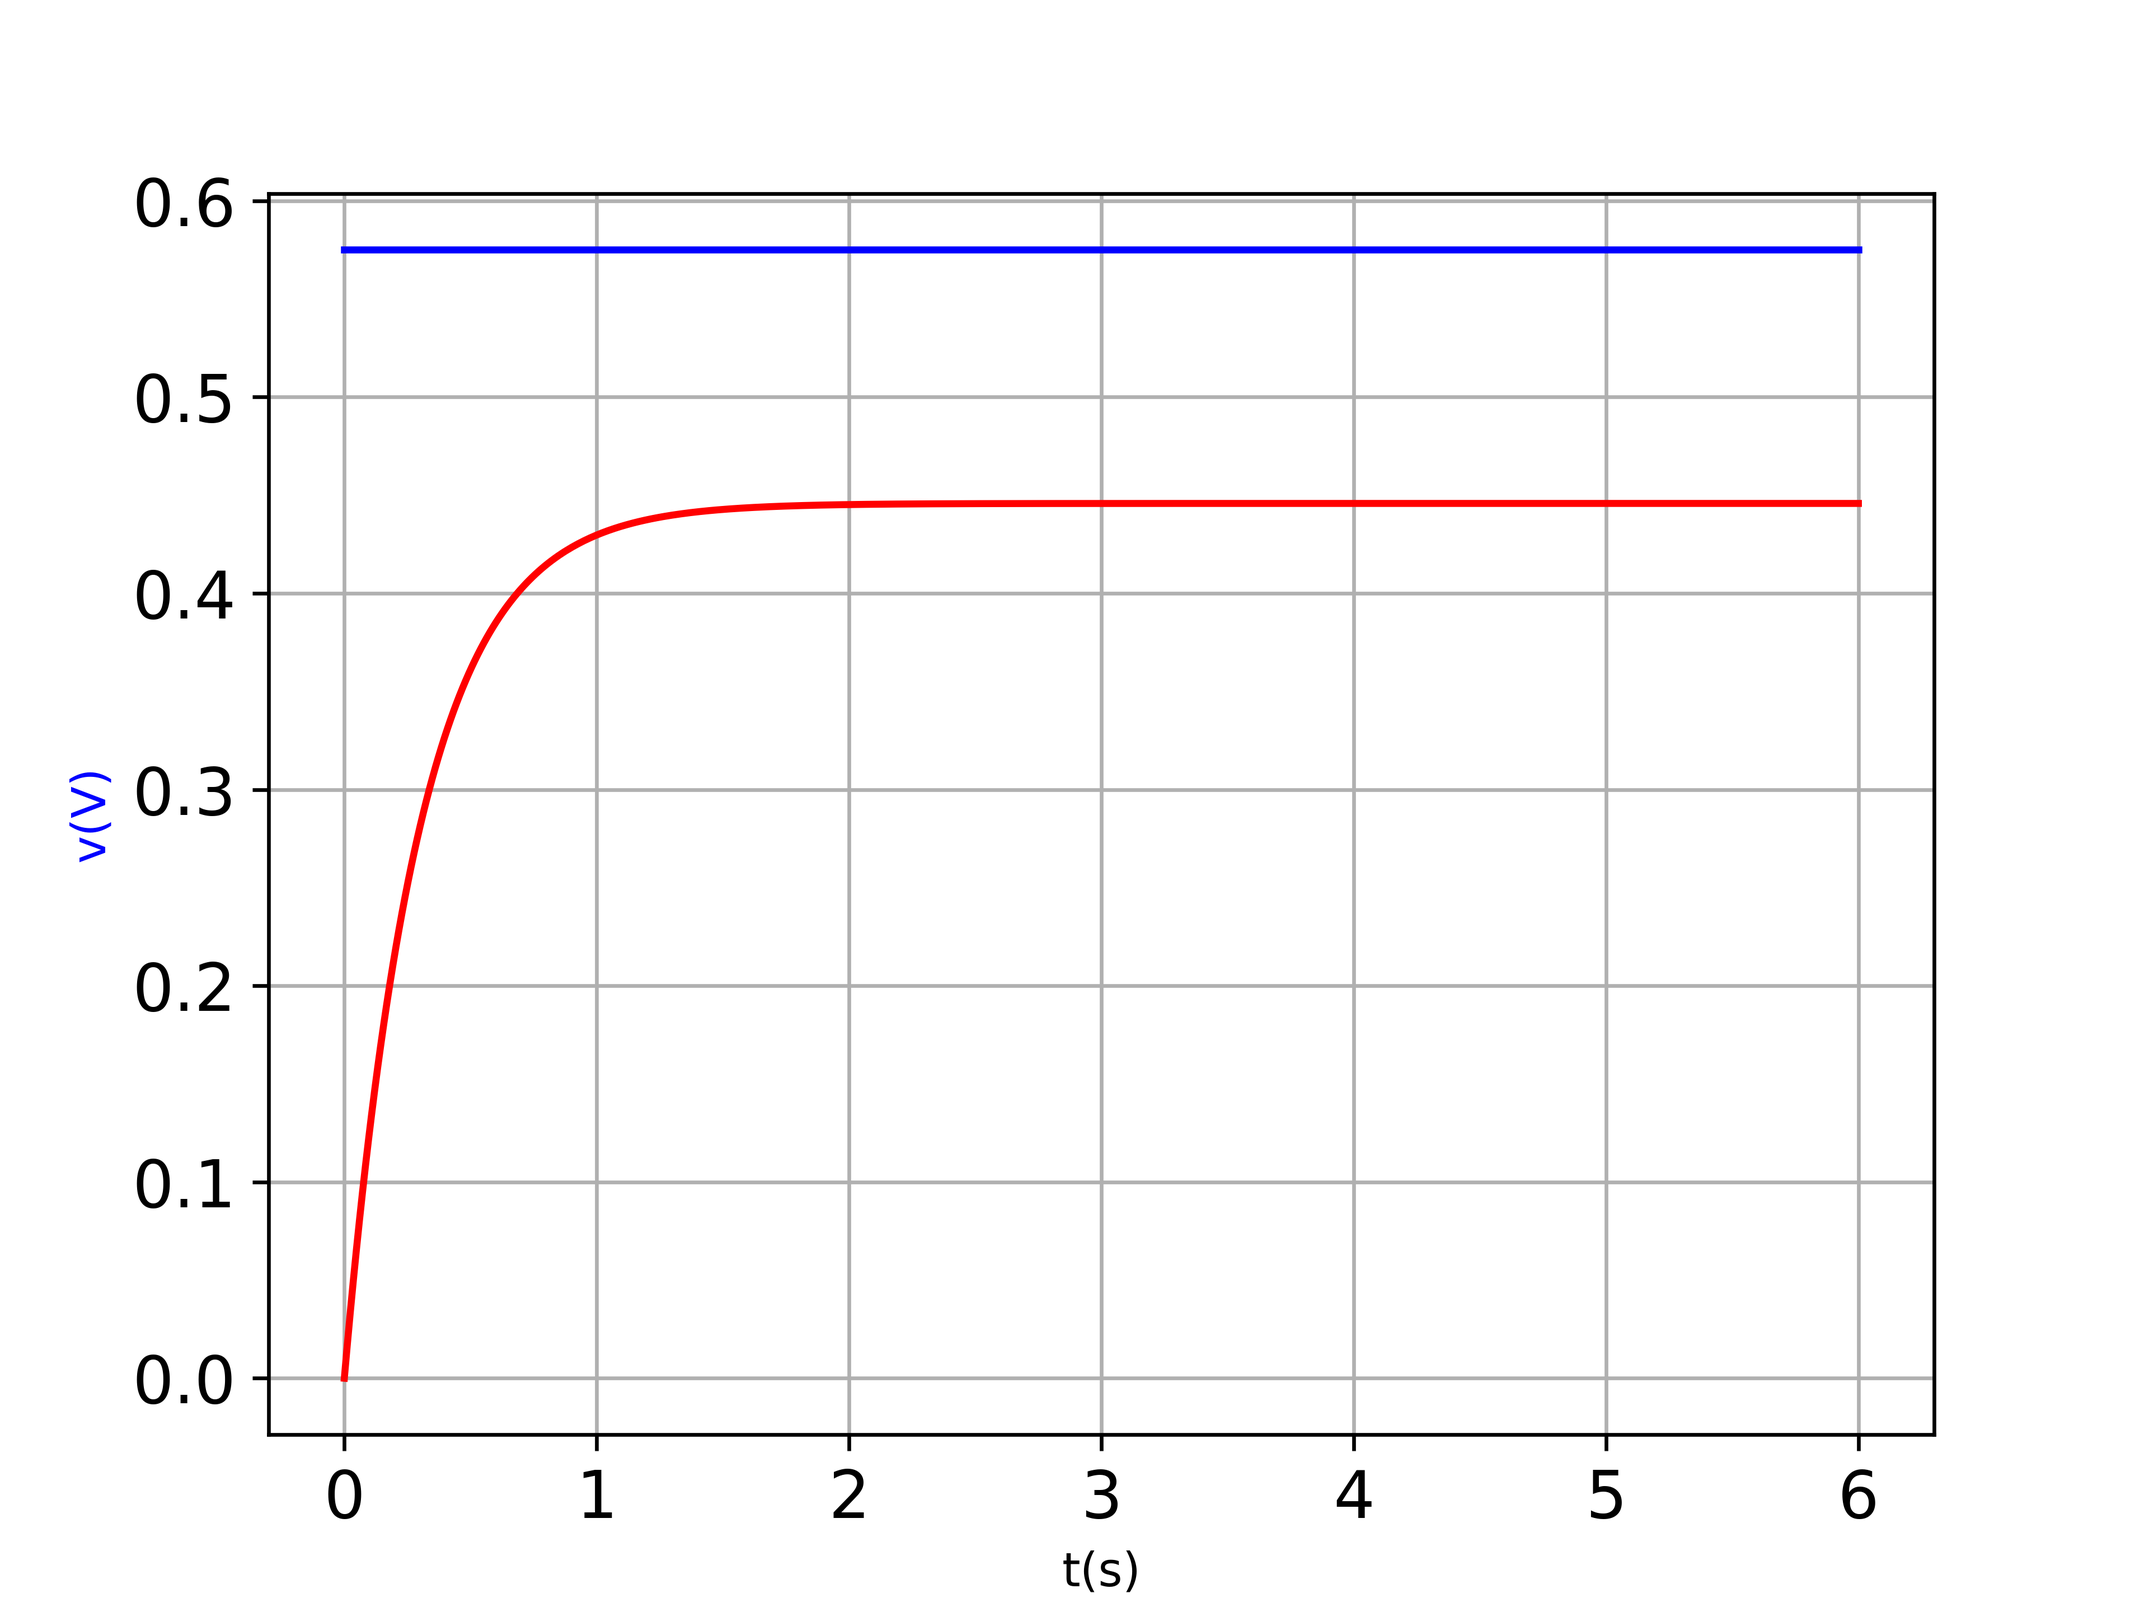
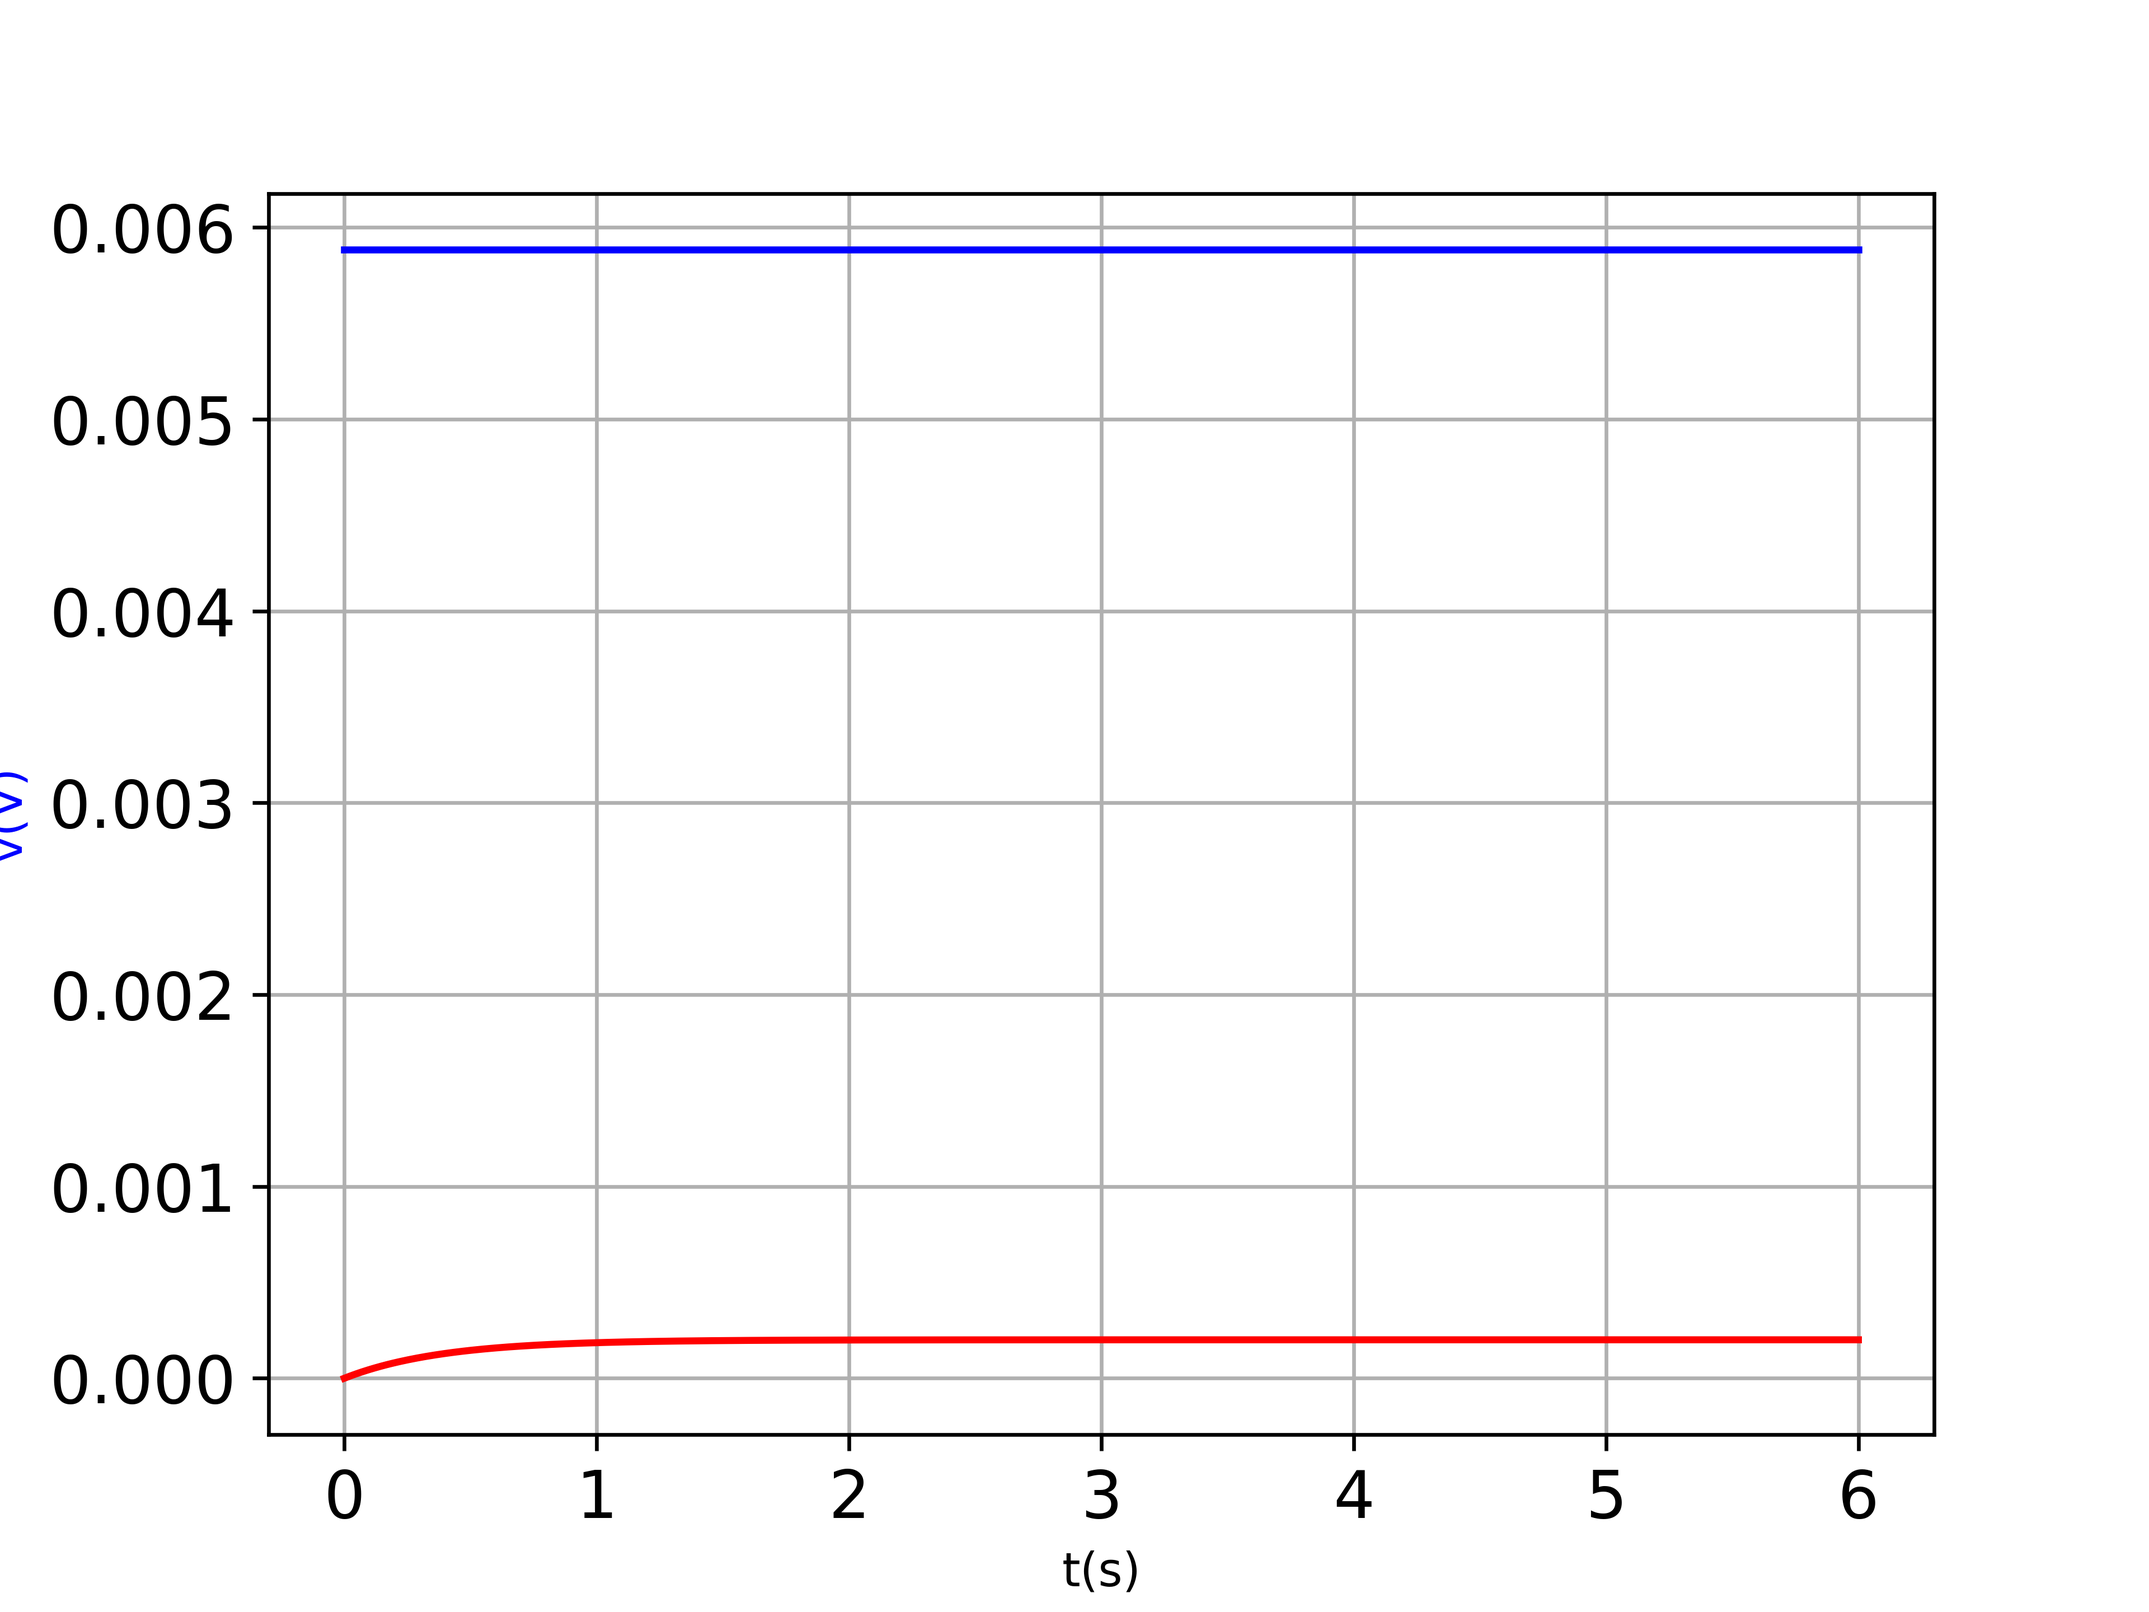
Alot of commits

diff --git a/server/templates/index.html b/server/templates/index.html
@@ -15,38 +15,34 @@
         <div class="row align-items-center"></div>
             <h1 style="text-align: center;font-weight: bold;">Controlador PID</h1>
             <div style="padding-bottom: 5px;" class="row  align-items-center">
-                <div class="col-sm-12 col-md-3 col-lg-3">
+                <div class="col-sm-12 col-md-2 col-lg-2">
                     <button class="btn btn-outline-dark" onclick="openP()">ζ</button>
                     <button class="btn btn-outline-dark" onclick="openK()">K</button>
                     <button class="btn btn-outline-dark" onclick="openL()">☰</button>  
                 </div>
                 <div class="col-sm-12 col-md-1 col-lg-1">
-                    <h>ζ: </h>
-                    <h id="zita"></h>
+                    <div id ="zita">ζ: </div>
                 </div>
                 <div class="col-sm-12 col-md-1 col-lg-1">
-                    <h>tr: </h>
-                    <h id="tr"></h>
+                    <div id ="omega">ω: </div>
                 </div>
                 <div class="col-sm-12 col-md-1 col-lg-1">
-                    <h>tp: </h>
-                    <h id="tp"></h>
+                    <div id ="tr">tr: </div>
                 </div>
                 <div class="col-sm-12 col-md-1 col-lg-1">
-                    <h>te: </h>
-                    <h id="te"></h>
+                    <div id ="tp">tp: </div>
                 </div>
                 <div class="col-sm-12 col-md-1 col-lg-1">
-                    <h>Kp: </h>
-                    <h id="Kp"></h>
+                    <div id ="te">te: </div>
                 </div>
                 <div class="col-sm-12 col-md-1 col-lg-1">
-                    <h>Ki: </h>
-                    <h id="Ki"></h>
+                    <div id ="Kp">Kp: </div>
                 </div>
                 <div class="col-sm-12 col-md-1 col-lg-1">
-                    <h>Kd: </h>
-                    <h id="Kd"></h>
+                    <div id ="Ki">Ki: </div>
+                </div>
+                <div class="col-sm-12 col-md-1 col-lg-1">
+                    <div id ="Kd">Kd: </div>
                 </div>
             
     </div>
@@ -113,7 +109,9 @@
         </div>
 
     </div>
-    <img class="PIDgraph" src="static/respuestaPI.png" alt="Respuesta del Controlador">
+    <!-- <div id="PIDimage" class="PIDgraph></div> -->
+    <div id="PIDimage" class="PIDgraph"></div>
+    
 
 
 

diff --git a/server/static/params.js b/server/static/params.js
@@ -90,7 +90,21 @@ function sendParams() {
             },
             success: function(response){
                 // Display response from server (for demonstration)
-                alert(response);
+                let timestamp = new Date().getTime();
+                let imgUpdate = 'static/respuestaActual.png' + '?timestamp=' + timestamp;
+                let imgElement = $('<img>');
+                $("#zita").text("ζ: " + response.zita);
+                $("#omega").text("ω: " + response.omega);
+                $("#tr").text("tr: " + response.tr);
+                $("#tp").text("tp: " + response.tp);
+                $("#te").text("te: " + response.te);
+                $("#Kp").text("Kp: " + response.kp);
+                $("#Ki").text("Ki: " + response.ki);
+                $("#Kd").text("Kd: " + response.kd);
+                imgElement.attr('src', imgUpdate);
+                $('#PIDimage').empty();
+                $('#PIDimage').append(imgElement);
+                $('#PIDimage').addClass('PIDgraph');
             },
             error: function(xhr, status, error){
                 // Display error message if request fails

diff --git a/server/static/custom.css b/server/static/custom.css
@@ -10,6 +10,10 @@
     padding-top: 60px;
   }
 
+img {
+  height: 125%;
+}
+
   .PIDgraph {
     position: absolute;
     height: 50%;

diff --git a/server/controller.py b/server/controller.py
@@ -1,49 +1,55 @@
 import numpy as np
-import json
 
 def calc(mode,c,params,pwm):
     k = 1.17
-    tau = 1.3
+    tau = 1.34
     tr, tp, te, zita, omega = params[1], params[2], params[3], params[4], params[5]
     kp, ki, kd = 0, 0, 0
+    
+    
     if c == "PID":
-        kp = (2*zita - 1)/k
-        ki = omega/k
-        kd = ((1/omega)-tau)/k
-        dataJson = json.dumps({"mode": mode, "mp": params[0], "tr": tr, "tp": tp, "te": te, "kp": kp, "ki": ki, "kd":kd, "c": c, "pwm": pwm}, sort_keys=True)
+        p1 = np.sqrt(4*(omega**2)*(zita**2 + tau -1)-(4*omega*zita)+ 1)
+        a = -1*(p1 - 2*omega*zita + 1)/(2*(omega**2))
+        b = (p1 + 2*omega*zita - 1)/(2*(omega**2))
+        kc = (omega**2)/k
+        kp = round(kc*(a+b),3)
+        ki = round(kc,3)
+        kd = round(a*b*kc,3)
+        dataJson = {"mode": mode, "mp": params[0], "tr": round(tr,3), "tp": round(tp,3), "te": round(te,3), "kp": kp, "ki": ki, "kd": kd, "c": c, "pwm": pwm, "omega":round(omega,3), "zita":round(zita,3)}
         return dataJson
     elif c == "PI":
-        kp = (2*zita*omega*tau -1)/k
-        ki = (tau* omega**2)/k
-        dataJson = json.dumps({"mode": mode, "mp": params[0], "tr": tr, "tp": tp, "te": te, "kp": kp, "ki": ki, "kd":kd, "c": c, "pwm": pwm}, sort_keys=True)
+        kp = round((2*zita*omega*tau -1)/k,3)
+        ki = round((tau* omega**2)/k,3)
+        dataJson = {"mode": mode, "mp": params[0], "tr": round(tr,3), "tp": round(tp,3), "te": round(te,3), "kp": kp, "ki": ki, "kd": kd, "c": c, "pwm": pwm, "omega":round(omega,3), "zita":round(zita,3)}
         return dataJson
     elif c == "PD":
-        kp = 4/k
-        kd = (te - tau)/k
+        kp = round(4/k,3)
+        kd = round((te - tau)/k,3)
         tp = te
         tr = te*(3/5)
-        dataJson = json.dumps({"mode": mode, "mp": params[0], "tr": tr, "tp": tp, "te": te, "kp": kp, "ki": ki, "kd":kd, "c": c, "pwm": pwm}, sort_keys=True)
+        dataJson = {"mode": mode, "mp": params[0], "tr": round(tr,3), "tp": round(tp,3), "te": round(te,3), "kp": kp, "ki": ki, "kd": kd, "c": c, "pwm": pwm, "omega":round(omega,3), "zita":round(zita,3)}
         return dataJson
     elif c == "ID":
-        kd = (1/k)*((1/(2*zita*omega)) - tau)
-        ki = ((omega**2)/k)*(k*kd + tau)
-        dataJson = json.dumps({"mode": mode, "mp": params[0], "tr": tr, "tp": tp, "te": te, "kp": kp, "ki": ki, "kd":kd, "c": c, "pwm": pwm}, sort_keys=True)
+        kd = round((1/k)*((1/(2*zita*omega)) - tau),3)
+        ki = round(((omega**2)/k)*(k*kd + tau),3)
+        dataJson = {"mode": mode, "mp": params[0], "tr": round(tr,3), "tp": round(tp,3), "te": round(te,3), "kp": kp, "ki": ki, "kd": kd, "c": c, "pwm": pwm, "omega":round(omega,3), "zita":round(zita,3)}
         return dataJson
     elif c == "P":
-        kp = (1/k)*(((5*tau)/(te))-1)
+        kp = round((1/k)*(((5*tau)/(te))-1),3)
         tp = te
         tr = te*(3/5)
-        dataJson = json.dumps({"mode": mode, "mp": params[0], "tr": tr, "tp": tp, "te": te, "kp": kp, "ki": ki, "kd":kd, "c": c, "pwm": pwm}, sort_keys=True)
+        dataJson = {"mode": mode, "mp": params[0], "tr": round(tr,3), "tp": round(tp,3), "te": round(te,3), "kp": kp, "ki": ki, "kd": kd, "c": c, "pwm": pwm, "omega":round(omega,3), "zita":round(zita,3)}
         return dataJson
     elif c == "I":
-        ki = ((tau*(omega**2))-1)/k
-        dataJson = json.dumps({"mode": mode, "mp": params[0], "tr": tr, "tp": tp, "te": te, "kp": kp, "ki": ki, "kd":kd, "c": c, "pwm": pwm}, sort_keys=True)
+        ki = round(((tau*(omega**2))-1)/k,3)
+        dataJson = {"mode": mode, "mp": params[0], "tr": round(tr,3), "tp": round(tp,3), "te": round(te,3), "kp": kp, "ki": ki, "kd": kd, "c": c, "pwm": pwm, "omega":round(omega,3), "zita":round(zita,3)}
         return dataJson
     elif c == "D":
-        kd = (1/k)*((te/5)-tau)
+        kd = round((1/k)*((te/5)-tau),3)
         tp = te
         tr = te*(3/5)
-        dataJson = json.dumps({"mode": mode, "mp": params[0], "tr": tr, "tp": tp, "te": te, "kp": kp, "ki": ki, "kd":kd, "c": c, "pwm": pwm}, sort_keys=True)
+        dataJson = {"mode": mode, "mp": params[0], "tr": round(tr,3), "tp": round(tp,3), "te": round(te,3), "kp": kp, "ki": ki, "kd": kd, "c": c, "pwm": pwm, "omega":round(omega,3), "zita":round(zita,3)}
         return dataJson
     else:
         return "error"
+

diff --git a/proyectoct.py b/proyectoct.py
@@ -1,21 +1,20 @@
 import matplotlib.pyplot as plt
 import control as ct
 import numpy as np
-import plots
+import server.plots as plots
 # ft = 0.00451 / 1.34s + 1
 
-stdst = 1.15
-tau = 1.34
-k = 1.15
+tau = 0.4
+k = 3/255
 time = np.linspace(0,6,500)
 num = [k]
 den = [tau,1]
 W = ct.tf(num,den)
 print(W)
-ref = stdst * np.ones(len(time))
+ref = 255 * np.ones(len(time))
 
-tr, out = ct.step_response(W, time)
-plots.plotting2(tr,out,ref,"Respuesta al Impulso","a","t(s)","PWM","respuestaimp1.png")
+tr, out = ct.forced_response(W,time,ref)
+plots.plotting(tr,out,"Respuesta al Impulso","t(s)","PWM","respuestaimp1.png")
 
 
 ### Validcacion de concatenacion de impulsos
@@ -23,9 +22,9 @@ im = np.ones(75)
 conc = np.concatenate((0*im,0.5*im,0.6*im,im,0.8*im,0.3*im,0.2*im,0.1*im), axis=None)
 time2 = np.linspace(0,60,len(conc))
 step = np.ones(len(time2))
-ref = stdst * np.ones(len(conc))
+ref = k * np.ones(len(conc))
 tr2, out2 = ct.forced_response(W,time2,conc)
-concg = conc * stdst
+concg = conc * k
 
 plots.plotting2(tr2,concg,out2,"Concatenacion","Respuesta","t(s)","v(V)","variosimp.png")
 
@@ -41,10 +40,10 @@ Kp = 3
 
 opl = ct.series(Kp,W)
 csl = ct.feedback(opl,1,-1)
-imp = np.ones(len(time)) * stdst * 0.5
+imp = np.ones(len(time)) * k * 0.5
 
 tr3, out3 = ct.forced_response(csl,time,imp)
-ref = imp * stdst
+ref = imp * k
 plots.plotting2(tr3,imp,out3,"Concatenacion","Respuesta","t(s)","v(V)","respuestakp.png")
 tr31, out31 = ct.forced_response(W,time,imp)
 plots.plotting2(tr31,ref,out31,"Concatenacion","Respuesta","t(s)","v(V)","respuestasinkp.png")

diff --git a/server/sendToArduino.py b/server/sendToArduino.py
@@ -1,0 +1,35 @@
+import serial
+import time
+import json
+
+
+ser = serial.Serial('/dev/ttyUSB0', 57600) # Change '/dev/ttyUSB0' to the correct port for your system
+
+def send_pwm_value(value):
+    # Ensure the value is within bounds
+    value = min(max(value, 0), 255)
+    ser.write(str(value).encode()) # Send the PWM value to Arduino
+    print("Sent PWM value:", value)
+
+def receive_analog_value():
+    # Wait for the Arduino to send data
+    while ser.in_waiting == 0:
+        pass
+    analog_value = ser.readline().decode().strip() # Read the analog value from Arduino
+    return analog_value
+
+try:
+    while True:
+        # Receive analog value from Arduino
+        analog_value = receive_analog_value()
+        print("Received analog value:", analog_value)
+
+        # Send PWM value to Arduino
+        pwm_value = int(input("Enter PWM value (0-255): "))
+        send_pwm_value(pwm_value)
+
+        time.sleep(0.1) # Wait for a short time before next iteration
+
+except KeyboardInterrupt:
+    print("\nExiting program")
+    ser.close() # Close the serial connection when the program exits

diff --git a/server/server.py b/server/server.py
@@ -2,6 +2,7 @@ from flask import Flask, render_template, request
 import json
 import param
 import controller
+import graphs
 #import serial_script
 
 app = Flask(__name__)
@@ -29,13 +30,12 @@ def send_data():
         data = f"Datos Recibidos: mode={mode}, mp={mp},tr={tr},tp={tp},te={te}, kp={kp}, ki={ki}, kd={kd}, c={c}"
         parameters = param.calc(mode,mp,tr,tp,te)
         output = controller.calc(mode,c,parameters,pwm)
-        outputFile = open("controllerData.json","w")
-        json.dump(output,outputFile,indent=6)
+        outputFile = open("server/controllerData.json","w")
+        json.dump(output,outputFile,indent=4)
         outputFile.close()
-        # Forward data to the Python script handling serial communication
-        #serial_script.send_data_to_arduino(data)
+
         print(parameters)
-        # Return a response to the client
+        graphs.make()
         return output
 
 if __name__ == '__main__':

diff --git a/server/graphs.py b/server/graphs.py
@@ -1,0 +1,31 @@
+import numpy as np
+import control as ct
+import plots as plots
+import json
+
+def make():
+    params = json.load(open('server/controllerData.json'))
+
+    k = 1.17
+    tau = 1.34
+
+    kp = float(params["kp"])
+    ki = float(params["ki"])
+    kd = float(params["kd"])
+
+    time = np.linspace(0,6,500)
+
+    num = [k]
+    den = [tau, 1]
+    W = ct.tf(num,den)
+
+    kpt = ct.tf([kp],[1])
+    kit = ct.tf([ki],[1,0])
+    kdt = ct.tf([kd,0],[1])
+    ct1 = ct.parallel(kpt,kit)
+    ctr = ct.parallel(ct1,kdt)
+    optf = ct.series(ctr,W)
+    cltf = ct.feedback(optf,1,-1)
+
+    tr, out = ct.step_response(cltf,time)
+    plots.plotting(tr,out,"Respuesta PID","t(s)","v(V)","server/static/respuestaActual.png")

diff --git a/prueba.py b/prueba.py
@@ -1,0 +1,36 @@
+import numpy as np
+import control as ct
+import server.plots as plots
+
+
+omega = 3.66
+zita = 0.2154
+tau = 1.34
+
+p1 = np.sqrt(4*(omega**2)*(zita**2 + tau -1)-(4*omega*zita)+ 1)
+a = -1*(p1 - 2*omega*zita + 1)/(2*(omega**2))
+b = (p1 + 2*omega*zita - 1)/(2*(omega**2))
+kc = (omega**2)/1.17
+
+kp = kc*(a+b)
+ki = kc
+kd = a*b*kc
+
+time = np.linspace(0,6,500)
+
+num = [1.17]
+den = [tau, 1]
+W = ct.tf(num,den)
+
+kpt = ct.tf([kp],[1])
+kit = ct.tf([ki],[1,0])
+kdt = ct.tf([kd,0],[1])
+ct1 = ct.parallel(kpt,kit)
+ctr = ct.parallel(ct1,kdt)
+optf = ct.series(ctr,W)
+cltf = ct.feedback(optf,1,-1)
+
+tr, out = ct.step_response(cltf,time)
+plots.plotting(tr,out,"Respuesta PID","t(s)","v(V)","respuestaPID.png")
+
+

diff --git a/server/plots.py b/server/plots.py
@@ -26,7 +26,6 @@ def plotting(xAxisVector,yAxisVector,titleString,stringXaxis,stringYaxis,stringF
     plt.tick_params(axis='both',which='major',labelsize=14)
     plt.grid(visible=True)
     plt.savefig(stringFileName,dpi=600)
-    plt.show()
 
 def locus(stringFileName):
     plt.grid(True)
